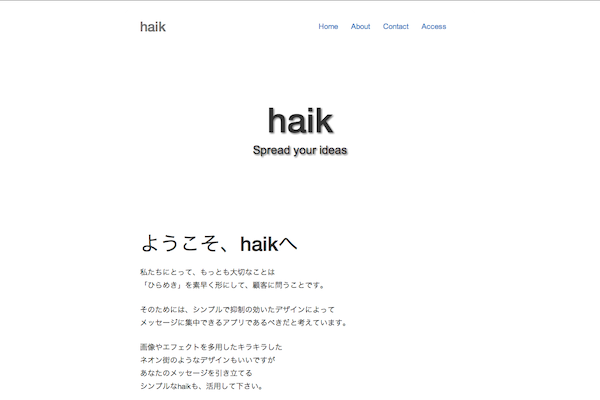
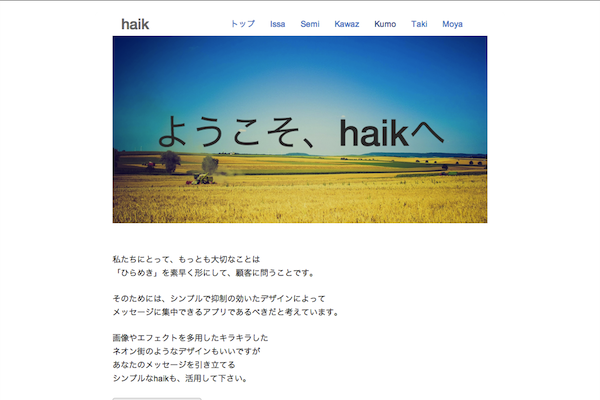
fitレイアウトの追加

diff --git a/css/docs.css b/css/docs.css
@@ -18,6 +18,11 @@ body {
 	margin: 30px 0;
 }
 
+#orgm_container.haik-fullpage {
+	padding-left:0;
+	padding-right:0;
+}
+
 /* navi */
 #logo {
 	padding: 0 0;

diff --git a/fit.skin.php b/fit.skin.php
@@ -1,0 +1,85 @@
+<head prefix="#{$head_prefix}">
+	#{$meta_content_type}
+	<title>#{$page_title}</title>
+	#{$viewport}
+	<meta name="keywords" content="#{$keywords}">
+	<meta name="description" content="#{$description}">
+	<link rel="alternate" type="application/rss+xml" title="RSS" href="#{$rss_link}">
+
+	#{$bootstrap_css}
+	#{$style_css}
+	
+	#{$head_tag}
+	#{$plugin_head}
+	#{$user_head}
+	
+	#{$tracking_script}
+
+</head>
+
+<body>
+#{$body_first}
+#{$sr_link}
+
+<div id="orgm_container" class="container-narrow haik-fullpage">
+
+	<header>
+		<!-- Navbar
+		================================================== -->
+		<div id="orgm_navbar" class="musthead container">
+			<h1 id="logo" class="pull-left">#{$logo}</h1>
+	
+			<button type="button" class="navbar-toggle" data-toggle="collapse" data-target=".navbar-collapse">
+				<span class="icon-bar"></span>
+				<span class="icon-bar"></span>
+				<span class="icon-bar"></span>
+			</button>
+			<nav class="navbar-collapse collapse">
+				#{$site_navigator}
+			</nav>
+		</div>
+	
+		<!-- EyeCatch
+		================================================== -->
+		<div id="orgm_eyecatch">#{$eyecatch}</div>
+	</header>
+	
+	<!-- Body
+	================================================== -->
+	<div id="contents" class="marketing" role="main">
+		#{$body}
+	</div>
+	
+	<aside>
+		#{$summary}
+	</aside>
+
+	<hr>
+
+	<!-- Footer
+	================================================== -->
+	<footer class="footer">
+		#{$site_footer}
+	</footer>
+
+</div>
+<div id="license">
+	#{$license_tag}
+</div>
+
+
+#{$admin_nav}
+#{$body_last}
+
+<!-- Script
+================================================== -->
+#{$jquery_script}
+#{$bootstrap_script}
+#{$common_script}
+#{$admin_script}
+
+#{$plugin_script}
+#{$user_script}
+
+</body>
+</html>

diff --git a/config.php b/config.php
@@ -1,7 +1,7 @@
 <?php
 $config = array(
 	'name' => 'taki',
-	'version' => '1.1.0',
+	'version' => '1.2.0',
 	'thumbnail' => 'img/thumbnail.png',
 	'style_file' => 'css/docs.css',
 	'templates' => array(
@@ -9,6 +9,11 @@ $config = array(
 			'filename' => 'top.skin.php',
 			'layouts' => array('SiteNavigator', 'SiteFooter'),
 			'thumbnail' => 'img/thumbnail.top.png',
+		),
+		'fit' => array(
+			'filename' => 'fit.skin.php',
+			'layouts' => array('SiteNavigator', 'SiteFooter'),
+			'thumbnail' => 'img/thumbnail.fit.png',
 		),
 	),
 	'default_template' => 'top',
